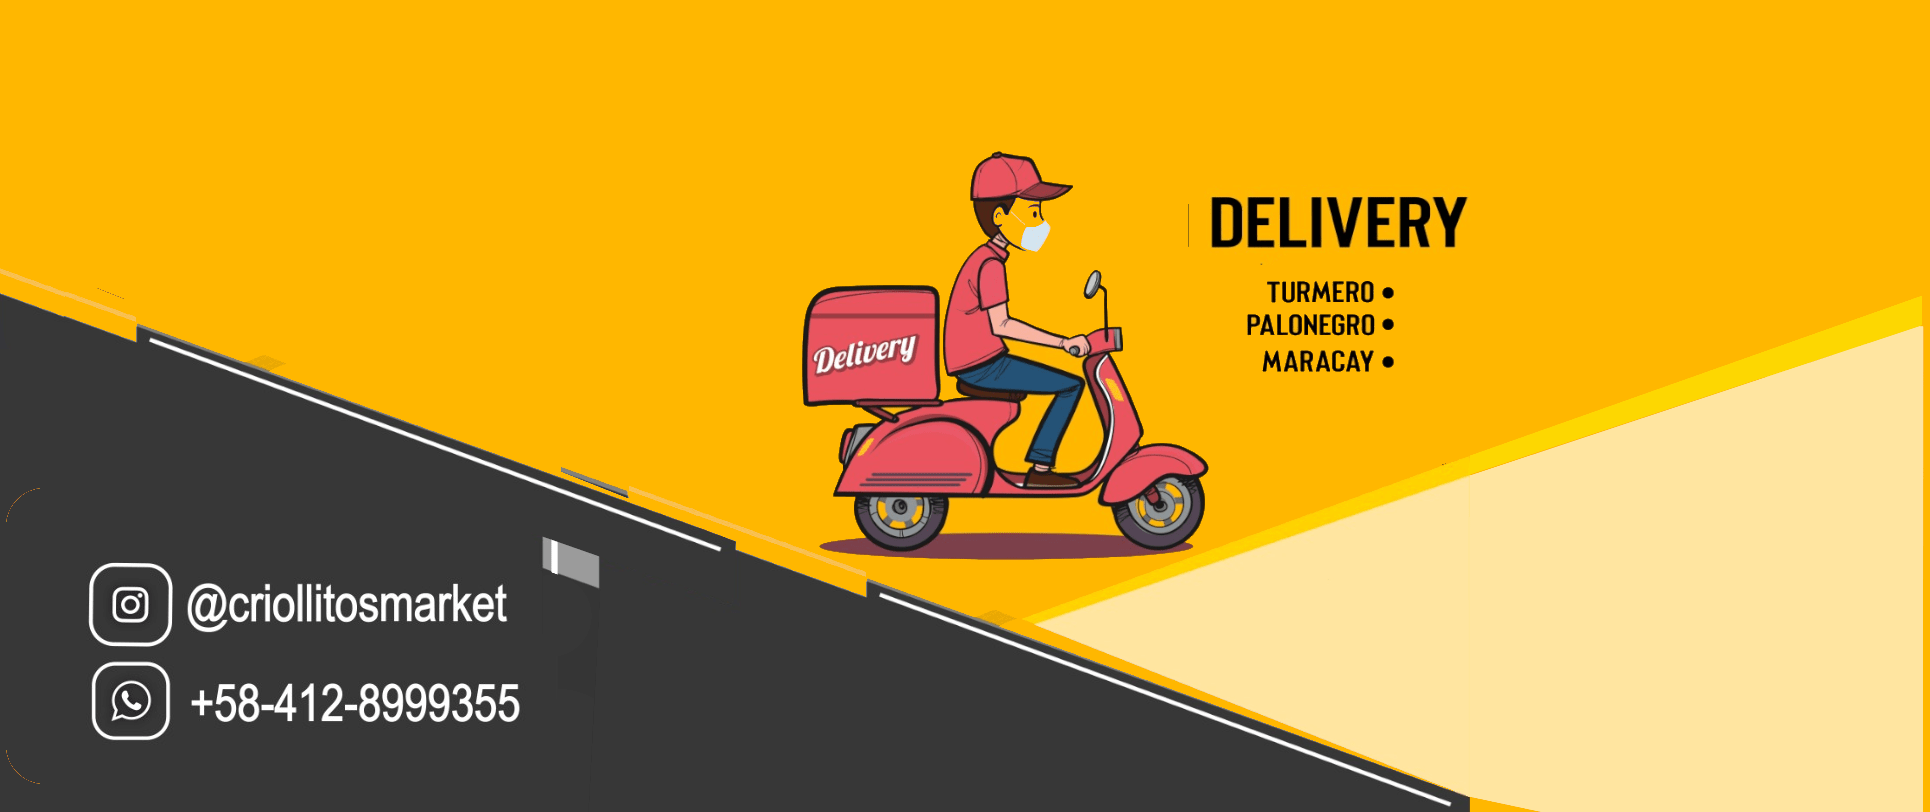
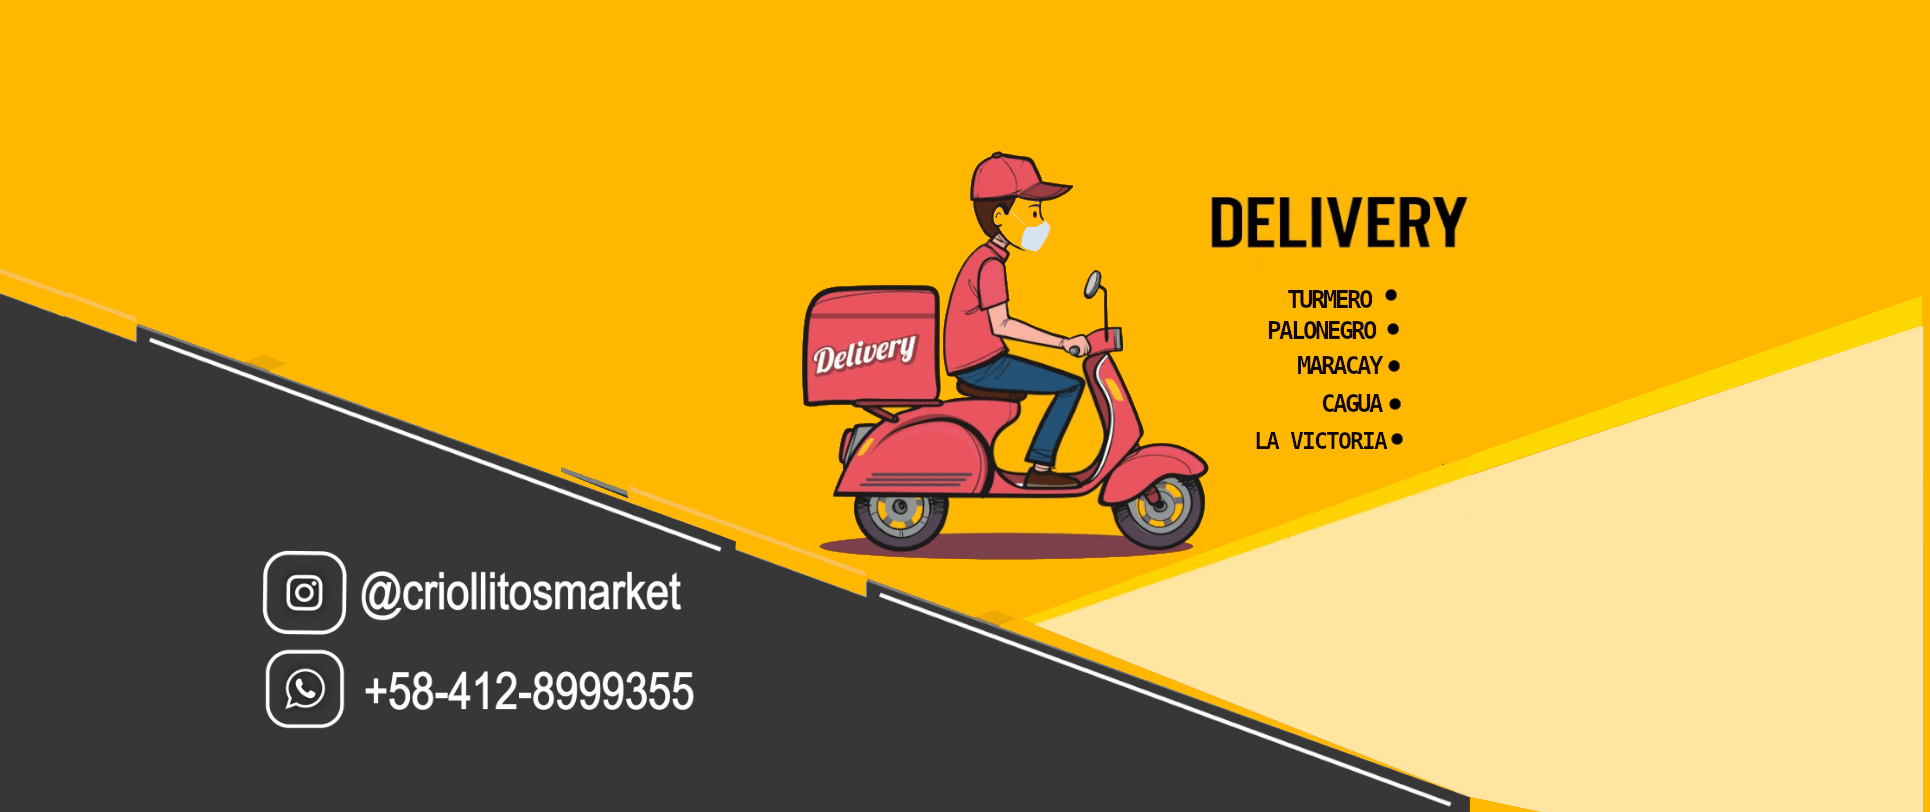
mejoras de footer image

Changed region(s): [[0.0311, 0.6466, 0.3731, 0.9236], [0.6528, 0.3387, 0.7461, 0.5542]]

diff --git a/market/templates/market/footer.html b/market/templates/market/footer.html
@@ -94,23 +94,8 @@
 				</div>
 
 
-				<div class="col-sm-6 col-lg-3 p-b-50" style="background-image:url({% static 'images/imageTorre.png' %}); border-radius: 10px;">
-					<!--<h4 class="stext-301 cl0 p-b-30">
-						Recibe informaci&oacute;n
-					</h4>
-
-					<form>
-						<div class="wrap-input1 w-full p-b-4">
-							<input class="input1 bg-none plh1 stext-107 cl7" type="text" name="email" placeholder="email@example.com">
-							<div class="focus-input1 trans-04"></div>
-						</div>
-
-						<div class="p-t-18">
-							<button class="flex-c-m stext-101 cl0 size-103 bg1 bor1 hov-btn2 p-lr-15 trans-04">
-								Subscribirse
-							</button>
-						</div>
-					</form>-->
+				<div class="col-sm-6 col-lg-3 p-b-50" >
+					<img src="{% static "images/imageTorre.png" %}" id="torre">
 				</div>
 			</div>
 

diff --git a/market/templates/market/index.html b/market/templates/market/index.html
@@ -12,6 +12,9 @@
 		background-repeat: no-repeat;
 		background-size: cover;
 	}
+	#torre{
+			width: inherit;
+	}
 	@media only screen and (max-width: 800px) and (min-width: 700px){
 		#unook{
 			background-image:url('/static/images/tercera2.png');
@@ -26,6 +29,13 @@
 			background-position: center center;
 			background-repeat: no-repeat;
 			background-size: cover;
+		}
+		#torre{
+			content:url('/static/images/imageTorremobile.png');
+			background-position: center center;
+			background-repeat: no-repeat;
+			background-size: cover;
+			white-space: pre;
 		}
 	}
 	</style>
